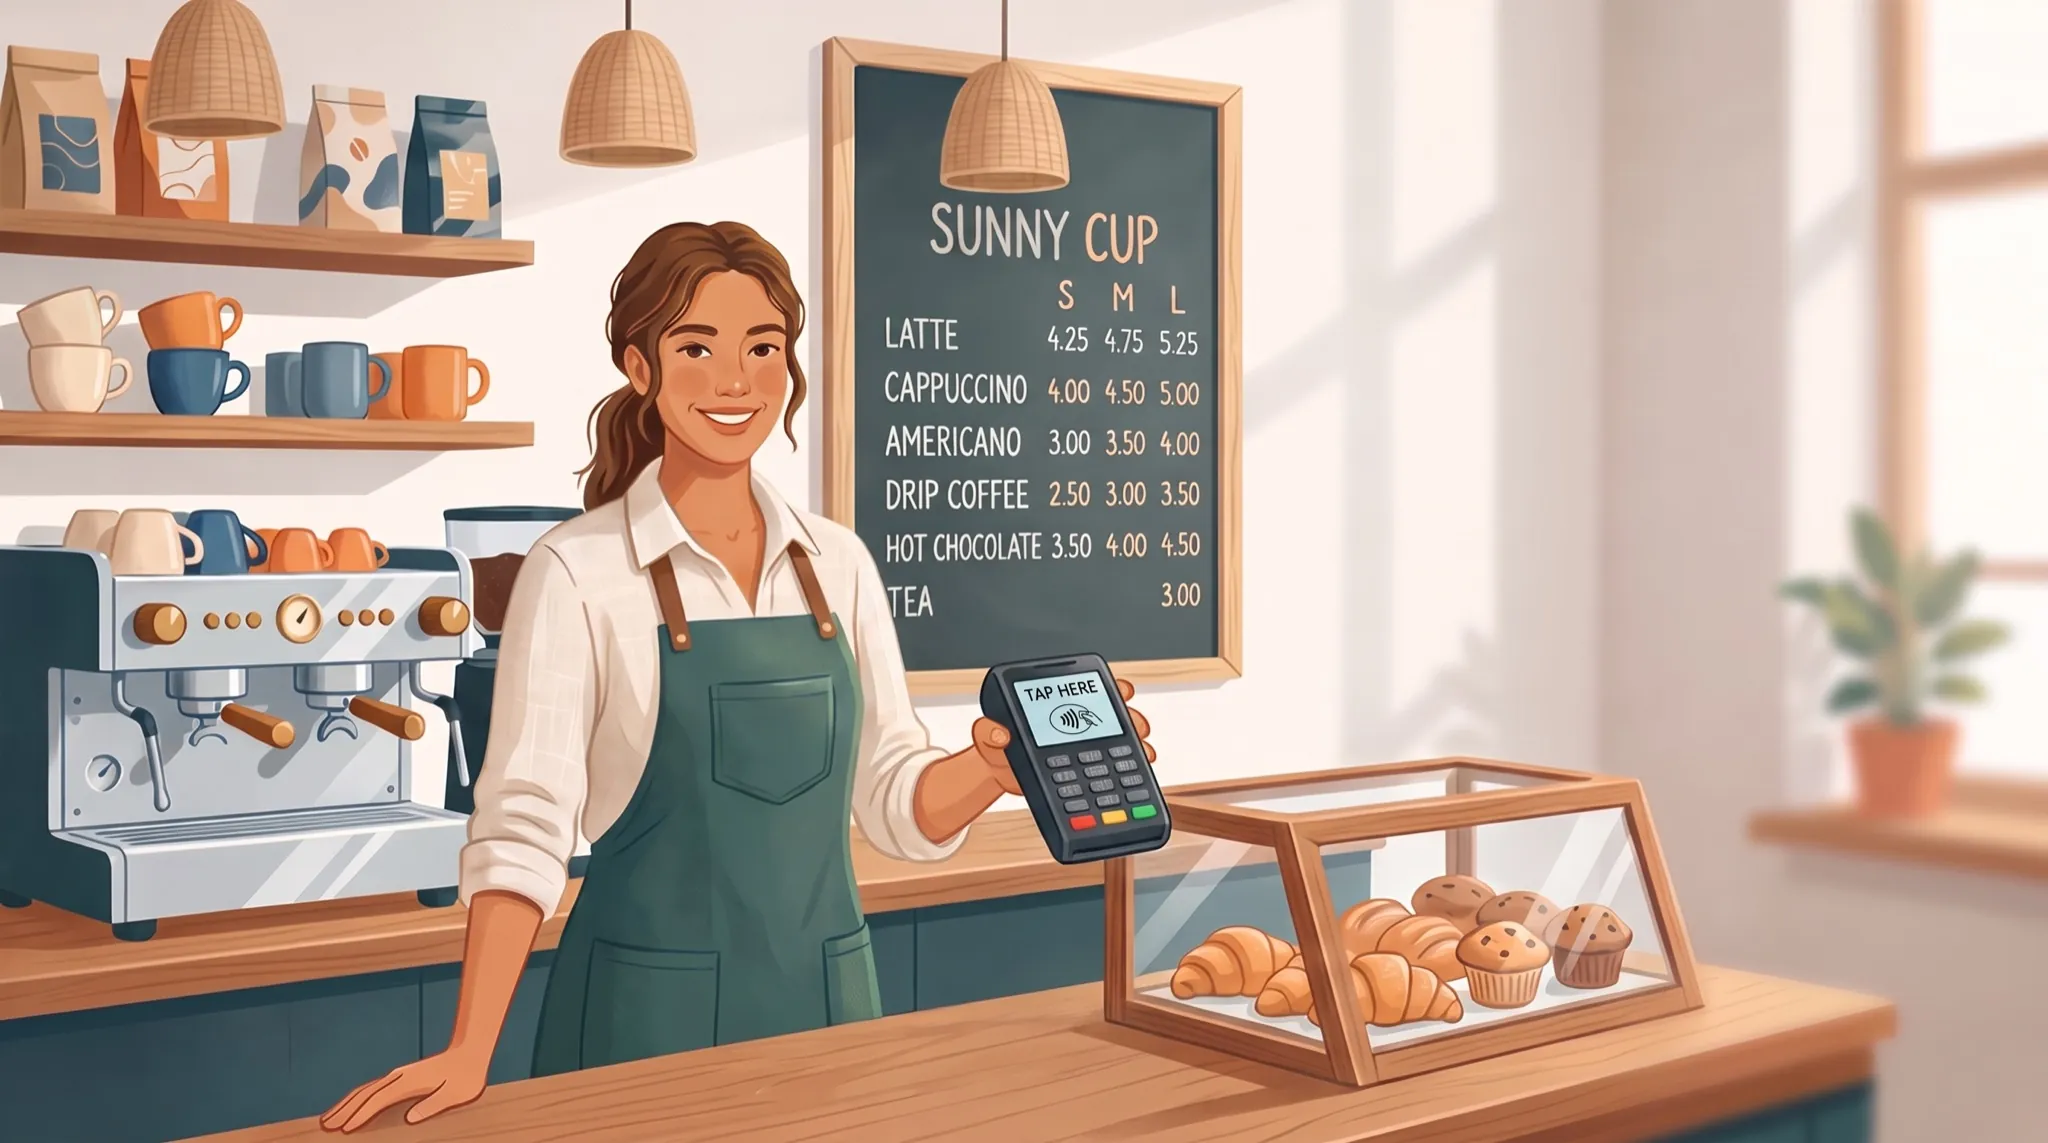
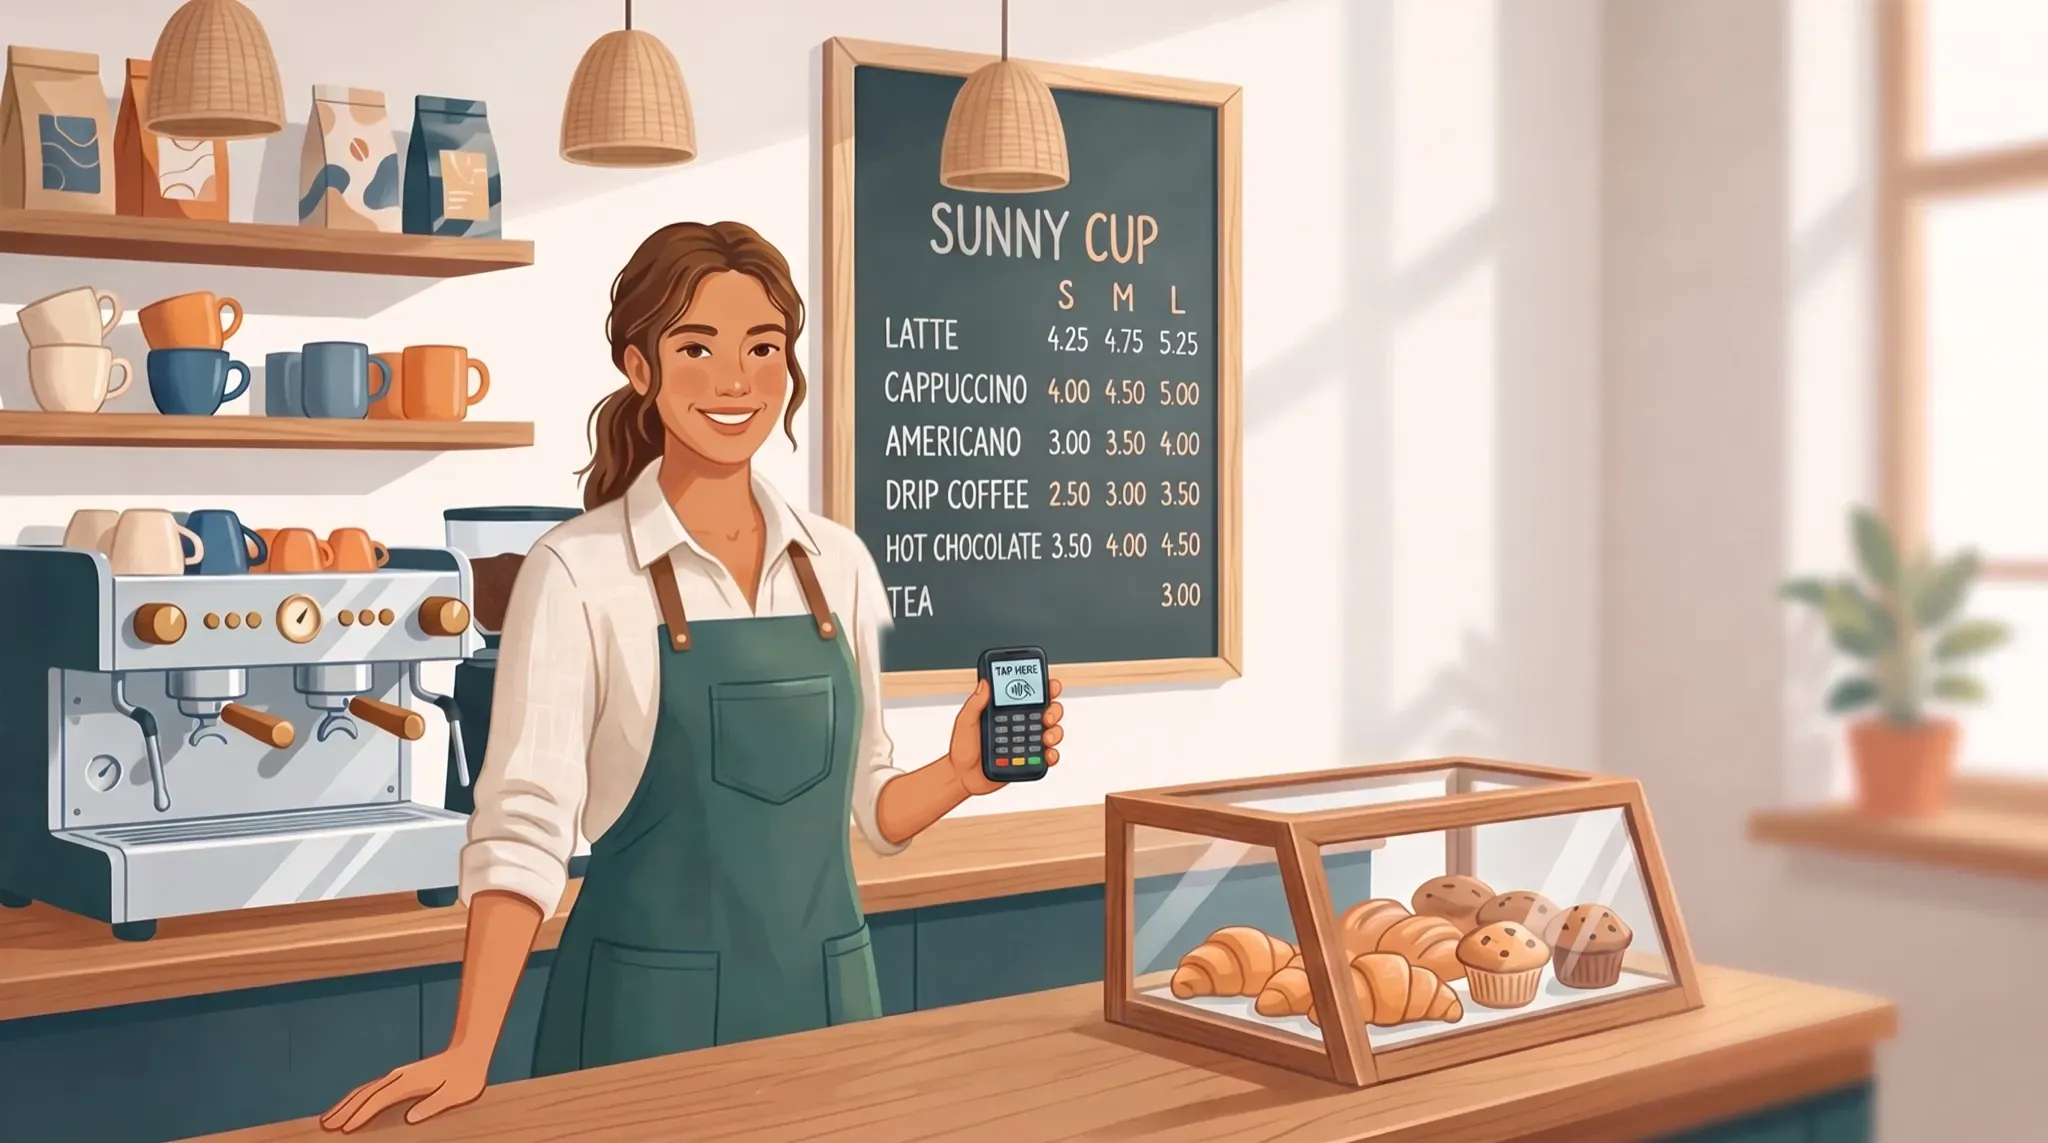
Correct cafe hands and props while preserving Mia and improve conversation heading layout

Changed region(s): [[0.4062, 0.5512, 0.5938, 0.7655]]

diff --git a/src/ui/styles.css b/src/ui/styles.css
@@ -670,3 +670,10 @@ body.scene-on .tag-layer { display: none; }
 .prompt-text { display: flex; flex-direction: column; align-items: flex-start; text-align: left; line-height: 1.2; }
 .prompt-text small { font-weight: 600; font-size: 0.74em; color: var(--ink-soft); margin-top: 2px; }
 .sheet-body .town-lt { color: var(--ink-soft); font-size: 0.9em; margin: -2px 0 10px; }
+
+/* Keep the person's name and place readable beside all conversation controls. */
+.convo .convo-head { flex-wrap:wrap; }
+.convo .convo-head .who { display:block;flex:1 1 calc(100% - 64px); }
+.convo .convo-head .who b { display:block;padding-left:0; }
+.convo .convo-head .who span { padding-left:0; }
+.convo .convo-head .toggles { margin-left:54px;flex:1; }
